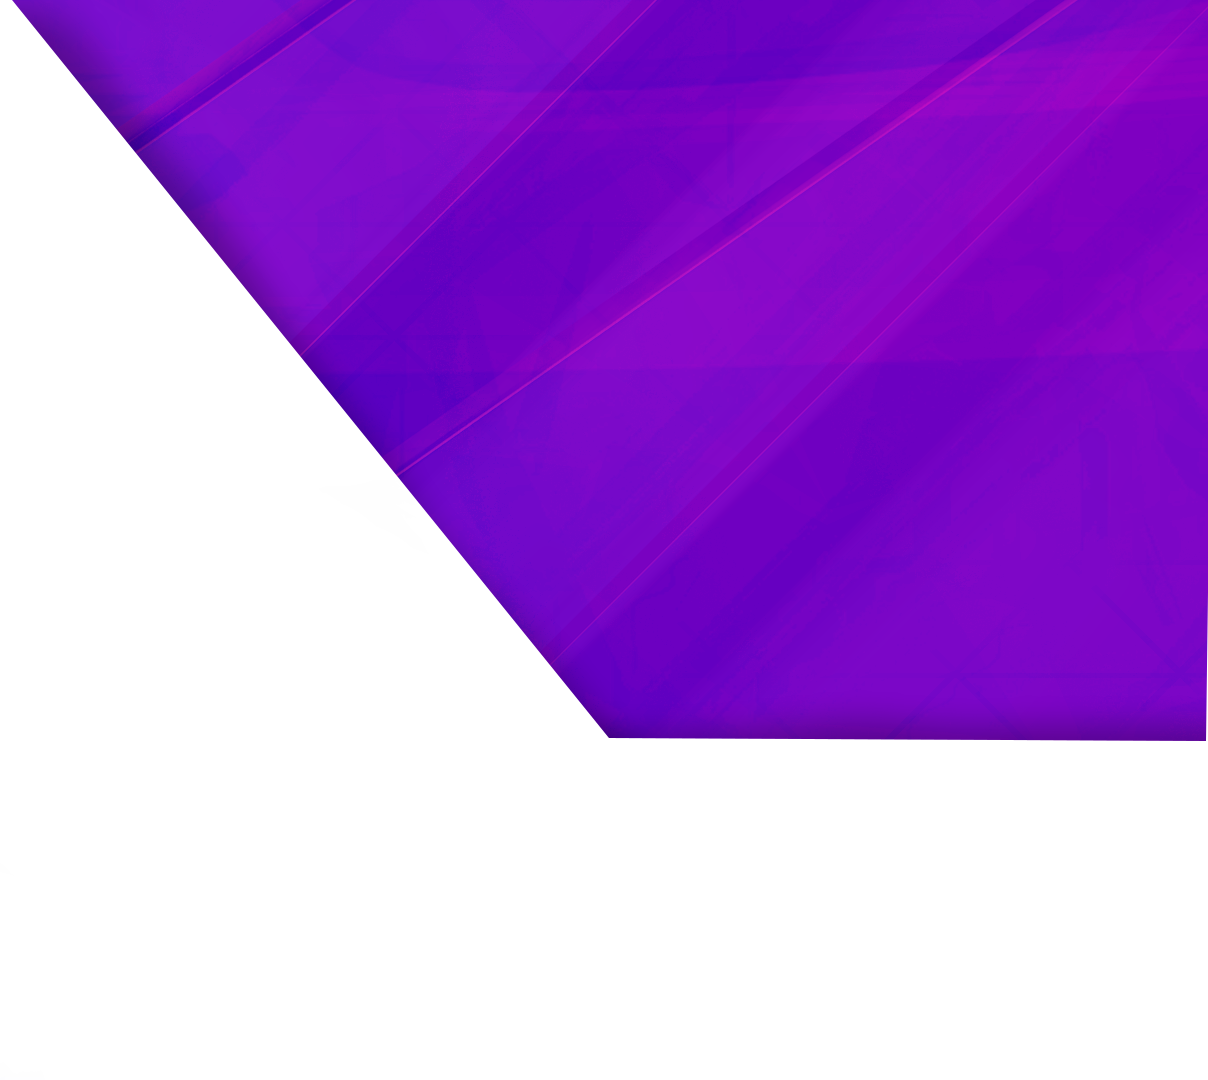
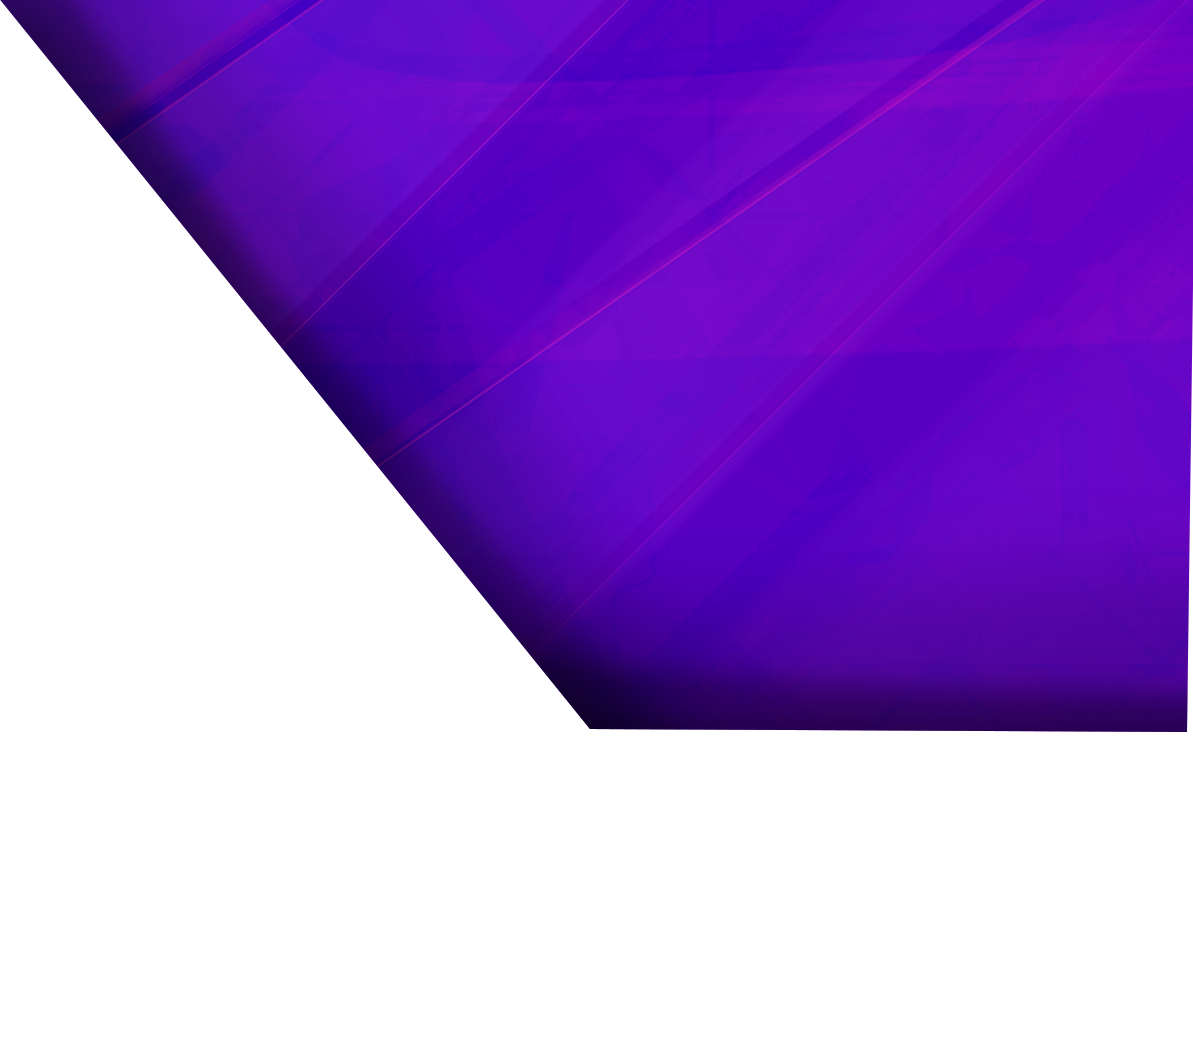
desc added

Changed region(s): [[0.0, 0.0, 1.0, 0.7003], [0.8064, 0.3654, 0.8374, 0.3958], [0.7754, 0.3958, 0.8064, 0.4263]]

diff --git a/index.html b/index.html
@@ -25,8 +25,8 @@
 			display: flex;
 			background-color: white;
 			min-height: 150px;
-			box-shadow: 0 0 20px darkblue;
-			border-bottom: 2px solid darkblue;
+			box-shadow: 0 0 20px rgb(50,50,50);
+			border-bottom: 2px solid black;
 			margin-bottom: 0px;
 		}
 		nav-item {
@@ -40,7 +40,10 @@
 		}
 		nav-item:hover{
 			background-color: white;
-			border-bottom: 2px solid darkblue;
+			border-bottom: 2px solid gray;
+		}
+		nav-item:active {
+			border-bottom: 4px solid darkblue;
 		}
 		.nav-img {
 			display: block;
@@ -92,7 +95,7 @@
 			margin: 0px;
 		}
 		.mid-content {
-			background-color: white;
+			background-color: lightgray;
 			height: 1000px;
 		}
 		.lower-content {
@@ -102,12 +105,15 @@
 		.right-content {
 			order: 1;
 			width: 30%;
-			display: inline-block;
-			background-color: white;
+			display: flex;
+			flex-direction: column;
+			background-color: lightgray;
+			background-image: url('./side.png');
 			height: 100%;
 			margin: 0px;
 			padding: 0px;
-			border: 1px solid white;
+			padding-left: 20px;
+			color: white;
 		}
 		.left-content {
 			order: 0;
@@ -115,16 +121,15 @@
 			height: 100%;
 			display: inline-block;
 			background-color: white;
-			border: 1px solid white;
 		}
 		@media (max-width: 600px){
-			body {
-				color: orange;
-			}
 			nav-item {
 				width: 100%;
 			}
 			nav {
+				flex-direction: column;
+			}
+			.content {
 				flex-direction: column;
 			}
 			.left-content {
@@ -133,7 +138,35 @@
 			.right-content {
 				width: 100%;
 			}
+			.edge-dummy {
+				display: none !important;
+			}
 		}		
+		#edge {
+			position: absolute; 
+			right:0px; 
+			margin-top: -1px;
+		}
+		#edge-gray {
+			position: relative; 
+			margin-top: -120px;
+			float: right;
+		}
+		.edge-dummy {
+			height: 100px;
+			display: block;
+		}
+		h3 {
+			margin-bottom: 0px;
+			margin-top: 0px;
+			color: lightblue;
+			font-weight: bold;
+		}
+		ul {
+			list-style-type: circle;
+		}
+		li {
+		}
 
 	</style>
 </head>
@@ -148,14 +181,33 @@
 		<div class="left-content">
 			<h1>jojahn</h1>
 			<p>make projects</p>
+			<img id="edge-gray" src="./edge_gray_small.png" height="100" width="100" alt="edge"/>
 		</div>
 		<div class="right-content">
-			<img src="./edge.png" height="200" width="200" alt="edge" style="right:0px;" />
+			<div class="edge-dummy"></div>
 			<h1>Quick Description</h1>
+			<h3>Programming Languages</h3>
 			<ul>
-				<li>Major Languages : Java, Python, C#</li>
+				<li>Java</li>
+				<li>JavaScript</li>
+				<li>HTML5</li>
+				<li>CSS3</li>
+				<li>Python</li>
+				<li>C/C++</li>
+			</ul>
+			<h3>Additional Knowledge</h3>
+			<ul>
+				<li>GIMP</li>
+				<li>Blender 3D</li>
+				<li>Word/Excel</li>
+			</ul>
+			<h3>Languages</h3>
+			<ul>
+				<li>English</li>
+				<li>German</li>
 			</ul>
 		</div>
+		<img id="edge" src="./edge.png" height="150" width="150" alt="edge"/>
 	</div>
 	<div class="content lower-content">
 		<h1>jojahn</h1>
